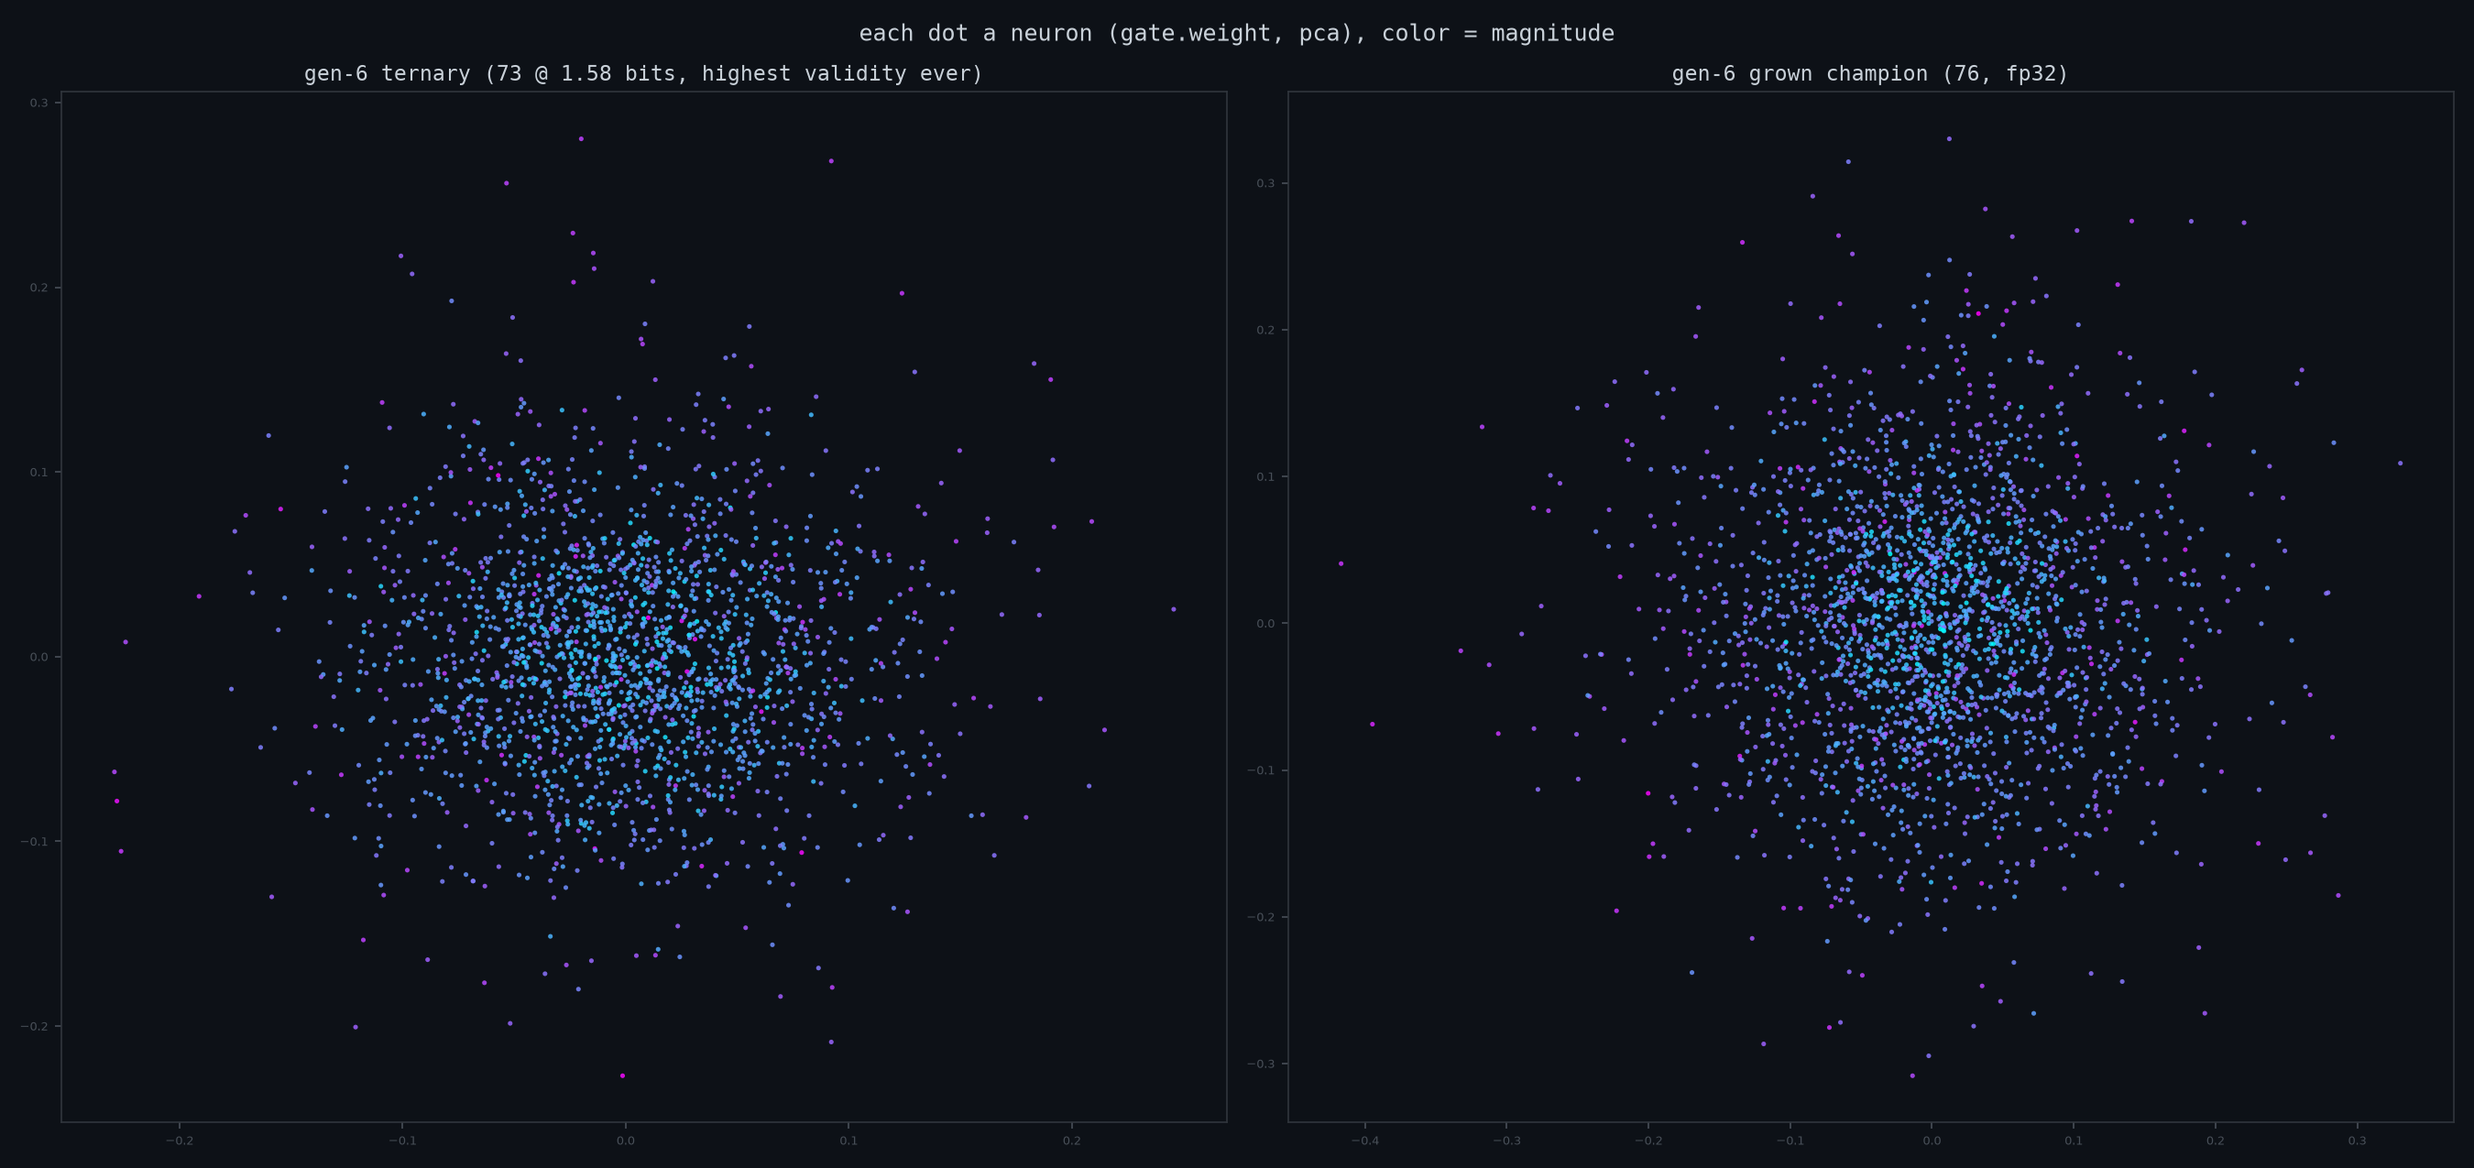
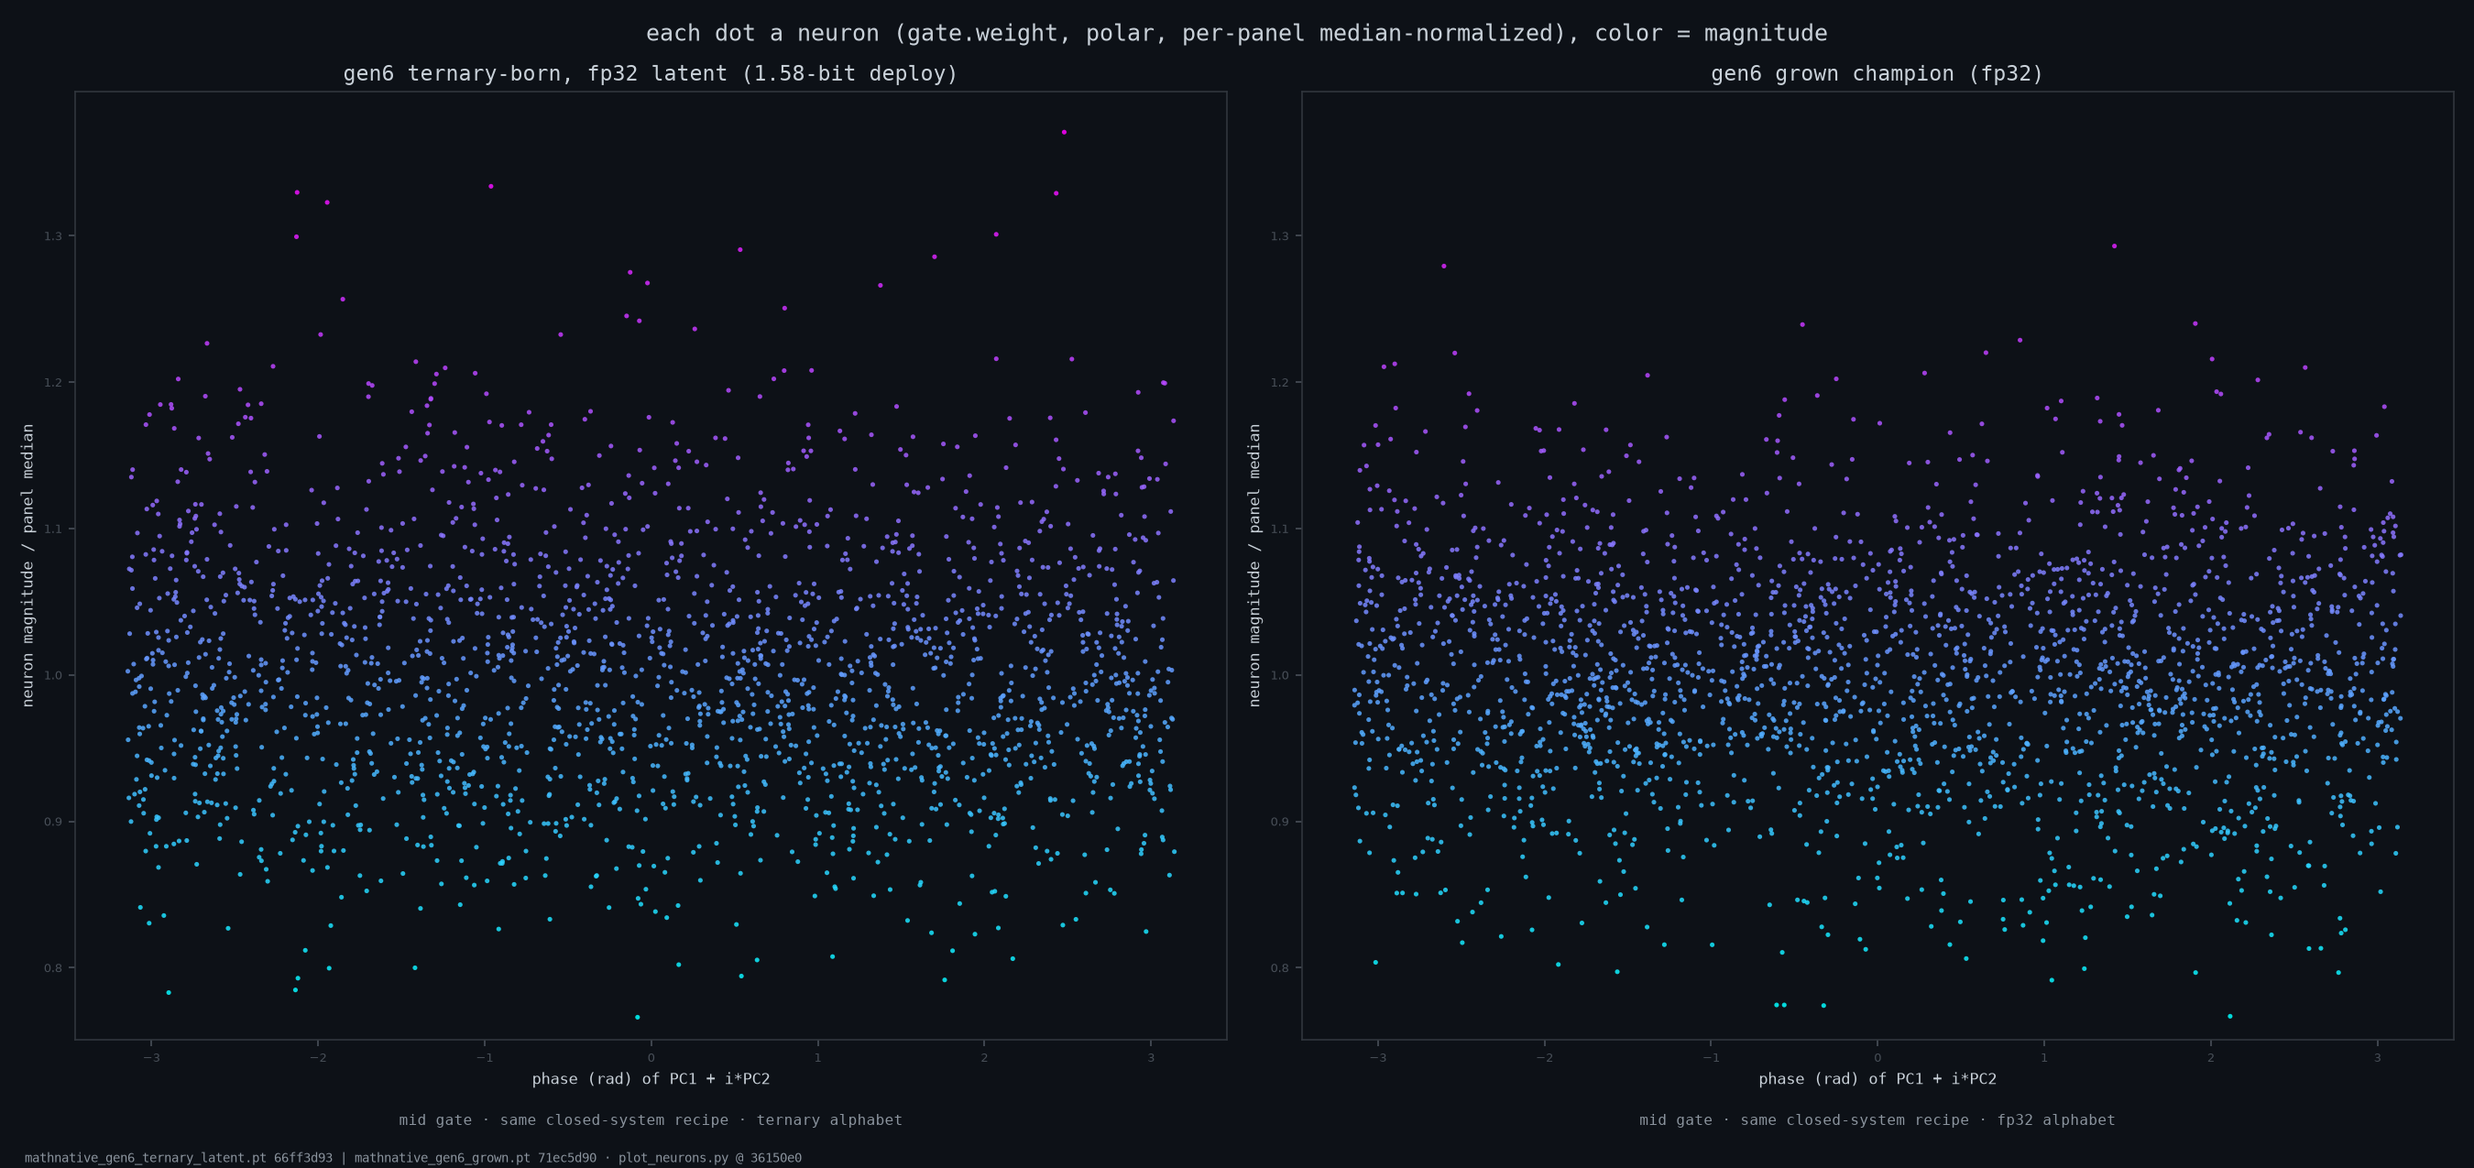
gallery hardening: plot_neurons provenance stamps (ckpt sha8 + repo HEAD) + --normalize for cross-substrate shape claims; new identity-crest figure from VERDICT EX-FRESH dicts; asset README rewritten with claim/fence/RESULTS anchors + [R]/[H] generator status; historical portraits frozen as-rendered

diff --git a/scripts/plot_neurons.py b/scripts/plot_neurons.py
@@ -18,11 +18,46 @@ Examples:
       --d 384 --title "math-native 19M" --out docs/assets/neurons-19m.png
   python scripts/plot_neurons.py --ckpt A.pt --compare B.pt \
       --method sphere --out docs/assets/neurons-a-vs-b.png
+
+Provenance (2026-08-08 gallery-hardening pass): every figure gets a
+footer stamp — checkpoint basename + sha256[:8] + the repo HEAD at
+render time — so a stranger can tie the pixels to exact artifacts
+(figures are claims; the citation policy applies to them too).
+--normalize divides each panel's magnitudes by that panel's MEDIAN
+before plotting: cross-substrate comparisons (fp32 v ternary v a
+671B expert shard) claim SHAPE similarity, so the radial axis must
+be commensurable — raw scales differ per alphabet and would fake
+or hide texture agreement.
 """
 import argparse
+import hashlib
+import subprocess
 
 BG = "#0d1117"
 FG = "#c9d1d9"
+DIM = "#8b949e"
+
+
+def sha8(path: str) -> str:
+    h = hashlib.sha256()
+    with open(path, "rb") as f:
+        for chunk in iter(lambda: f.read(1 << 22), b""):
+            h.update(chunk)
+    return h.hexdigest()[:8]
+
+
+def repo_head() -> str:
+    try:
+        return subprocess.run(
+            ["git", "rev-parse", "--short", "HEAD"],
+            capture_output=True, text=True).stdout.strip() or "unknown"
+    except OSError:
+        return "unknown"
+
+
+def provenance_line(ckpts) -> str:
+    parts = [f"{c.split('/')[-1]} {sha8(c)}" for c in ckpts]
+    return (f"{' | '.join(parts)} · plot_neurons.py @ {repo_head()}")
 
 
 def torch_svd_top2(X):
@@ -108,6 +143,14 @@ def main() -> None:
                     help="displacement magnification")
     ap.add_argument("--zoom", type=float, default=0.2,
                     help="central quantile box (0.2 = middle 60%)")
+    ap.add_argument("--normalize", action="store_true",
+                    help="divide each panel's magnitudes by that "
+                         "panel's median (cross-substrate SHAPE "
+                         "comparisons need commensurable axes)")
+    ap.add_argument("--foot", default=None,
+                    help="left-panel footer (layer/count/diet receipt)")
+    ap.add_argument("--foot2", default=None,
+                    help="right-panel footer")
     a = ap.parse_args()
     if a.displace:
         import numpy as np
@@ -138,7 +181,9 @@ def main() -> None:
         t = a.title or f"{a.ckpt} -> {a.displace}"
         ax.set_title(f"central lattice, displacements x{a.mult:g} — {t}",
                      color=FG, fontsize=11, family="monospace")
-        fig.tight_layout()
+        fig.text(0.01, 0.005, provenance_line([a.ckpt, a.displace]),
+                 color=DIM, fontsize=6.5, family="monospace")
+        fig.tight_layout(rect=(0, 0.015, 1, 1))
         fig.savefig(a.out, dpi=150, facecolor=BG)
         print(f"saved {a.out}")
         raise SystemExit
@@ -156,20 +201,47 @@ def main() -> None:
     for ck, title in ckpts:
         W = neuron_matrix(ck, a.key)
         xs, ys, mag = project(W, a.method)
+        if a.normalize:
+            med = mag.median().clamp(min=1e-12)
+            mag = mag / med
+            if a.method == "polar":
+                ys = ys / med  # polar's y IS the magnitude axis
         panels.append((xs, ys, mag, title))
     vmin = min(float(p[2].min()) for p in panels)
     vmax = max(float(p[2].max()) for p in panels)
-    for ax, (xs, ys, mag, title) in zip(axes, panels):
+    ylo = yhi = None
+    if a.method == "polar" and a.normalize:
+        # shared y-limits: SHAPE claims need commensurable axes
+        ylo = min(float(p[1].min()) for p in panels)
+        yhi = max(float(p[1].max()) for p in panels)
+    feet = [a.foot, a.foot2]
+    for i, (ax, (xs, ys, mag, title)) in enumerate(zip(axes, panels)):
         scatter(ax, xs, ys, mag, title, a.cmap, vmin=vmin, vmax=vmax)
         if a.method == "polar":
             ax.set_xlabel("phase (rad) of PC1 + i*PC2", color=FG,
                           fontsize=8, family="monospace")
-            ax.set_ylabel("neuron magnitude", color=FG, fontsize=8,
+            ax.set_ylabel("neuron magnitude"
+                          + (" / panel median" if a.normalize else ""),
+                          color=FG, fontsize=8, family="monospace")
+            if ylo is not None and yhi is not None:
+                ax.set_ylim(ylo * 0.98, yhi * 1.02)
+        elif a.method == "pca":
+            ax.set_xlabel("PC1", color=FG, fontsize=8,
                           family="monospace")
-    fig.suptitle(f"each dot a neuron ({a.key}, {a.method}), "
-                 f"color = magnitude", color=FG, fontsize=12,
+            ax.set_ylabel("PC2", color=FG, fontsize=8,
+                          family="monospace")
+        if i < len(feet) and feet[i]:
+            ax.text(0.5, -0.09, feet[i], transform=ax.transAxes,
+                    color=DIM, fontsize=7.5, family="monospace",
+                    ha="center")
+    fig.suptitle(f"each dot a neuron ({a.key}, {a.method}"
+                 + (", per-panel median-normalized" if a.normalize
+                    else "")
+                 + "), color = magnitude", color=FG, fontsize=12,
                  family="monospace")
-    fig.tight_layout()
+    fig.text(0.01, 0.005, provenance_line([c for c, _ in ckpts]),
+             color=DIM, fontsize=6.5, family="monospace")
+    fig.tight_layout(rect=(0, 0.02, 1, 1))
     fig.savefig(a.out, dpi=150, facecolor=BG)
     print(f"saved {a.out}")
 

diff --git a/scripts/plot_identity_crest.py b/scripts/plot_identity_crest.py
@@ -1,0 +1,90 @@
+"""The identity-era figure the gallery lacked (2026-08-08 pass).
+
+Data are TRANSCRIBED VERBATIM from VERDICT EX-FRESH (docs/RESULTS.md
+2026-08-07: all twelve dicts sum-verified there) — this script holds
+no model code; it renders the booked table so the repo's strongest
+claim has a visual. Regenerate: python scripts/plot_identity_crest.py
+
+Claim shown: capability follows expert IDENTITY. At three fresh
+paired seeds (1001/2002/3003, discovery pool quarantined), both a
+54.7%-keep swap-derived mask (+53 pooled) and a 98.7%-keep named
+80-carrier deletion (+55 pooled) beat the full 30B-class MoE on the
+120-prompt mathematics gate; the rank-matched random deletion
+control (+28) shows the router is over-inclusive at the carriers'
+rank class, and identity roughly doubles that gain.
+Fences travel: FORMAT-BOUND, REGIME-SCOPED (measured deployment
+artifacts), one vehicle, mathgen L1-3, Mac MLX.
+"""
+import subprocess
+
+BG = "#0d1117"
+FG = "#c9d1d9"
+DIM = "#8b949e"
+
+SEEDS = [1001, 2002, 3003]
+ARMS = [  # (label, per-seed solves /120, color)
+    ("full model", [59, 67, 63], "#8b949e"),
+    ("swap-derived keep-set\n(54.7% keep)", [77, 83, 82], "#58a6ff"),
+    ("named 80-carrier deletion\n(98.7% keep)", [78, 85, 81], "#bc8cff"),
+    ("rank-matched random\ndeletion control", [70, 76, 71], "#39c5cf"),
+]
+POOLED = [("swap - full", "+53"), ("deletion - full", "+55"),
+          ("deletion - control", "+27"), ("control - full", "+28")]
+
+
+def main() -> None:
+    import matplotlib
+    matplotlib.use("Agg")
+    import matplotlib.pyplot as plt
+
+    fig, ax = plt.subplots(figsize=(12.5, 7.5))
+    fig.patch.set_facecolor(BG)
+    ax.set_facecolor(BG)
+    for gi in range(len(SEEDS)):
+        for ai, (label, vals, col) in enumerate(ARMS):
+            x = gi * (len(ARMS) + 1.2) * 0.22 + ai * 0.22
+            ax.bar(x, vals[gi], width=0.19, color=col, alpha=0.92,
+                   label=label.replace("\n", " ") if gi == 0 else None)
+            ax.text(x, vals[gi] + 1.2, str(vals[gi]), color=FG,
+                    ha="center", fontsize=9, family="monospace")
+    centers = [gi * (len(ARMS) + 1.2) * 0.22 + 1.5 * 0.22
+               for gi in range(len(SEEDS))]
+    ax.set_xticks(centers)
+    ax.set_xticklabels([f"fresh seed {s}" for s in SEEDS],
+                       color=FG, fontsize=10, family="monospace")
+    ax.set_ylabel("gate solves / 120", color=FG, fontsize=10,
+                  family="monospace")
+    ax.set_ylim(0, 95)
+    ax.tick_params(colors="#484f58")
+    for s in ax.spines.values():
+        s.set_color("#30363d")
+    ax.set_title("capability follows expert IDENTITY — both crest "
+                 "forms replicate at three fresh paired seeds",
+                 color=FG, fontsize=12.5, family="monospace", pad=14)
+    ax.legend(loc="upper left", facecolor=BG, edgecolor="#30363d",
+                    fontsize=8.5, labelcolor=FG)
+    pooled_txt = "pooled: " + "  ".join(f"{k} {v} (3/3)"
+                                        for k, v in POOLED)
+    ax.text(0.5, -0.115, pooled_txt, transform=ax.transAxes,
+            color=FG, fontsize=9, family="monospace", ha="center")
+    try:
+        head = subprocess.run(["git", "rev-parse", "--short", "HEAD"],
+                              capture_output=True,
+                              text=True).stdout.strip()
+    except OSError:
+        head = "unknown"
+    ax.text(0.0, -0.16,
+            "VERDICT EX-FRESH (docs/RESULTS.md 2026-08-07) · 30B-class "
+            "MoE, 120-prompt mathematics gate, Mac MLX · FORMAT-BOUND, "
+            "REGIME-SCOPED, one vehicle · plot_identity_crest.py @ "
+            + head,
+            transform=ax.transAxes, color=DIM, fontsize=7,
+            family="monospace")
+    fig.tight_layout(rect=(0, 0.045, 1, 1))
+    out = "docs/assets/identity-crest-fresh-seeds.png"
+    fig.savefig(out, dpi=150, facecolor=BG)
+    print(f"saved {out}")
+
+
+if __name__ == "__main__":
+    main()

diff --git a/docs/assets/README.md b/docs/assets/README.md
@@ -1,34 +1,74 @@
 # Asset index — the crystal gallery
 
-Every image is generated by `scripts/plot_neurons.py` (methods:
-pca / sphere / polar / --displace) unless noted. House background
-#0d1117. Grouped by question, not by date.
+Figures are claims: each row names the claim, the fence, and where
+the verdict lives in `docs/RESULTS.md`. House background #0d1117.
+Grouped by question, not by date.
 
-## Current models (2026-07-18)
+Provenance policy (2026-08-08 pass): `scripts/plot_neurons.py` now
+stamps every render with checkpoint sha256[:8] + repo HEAD, and has
+`--normalize` (per-panel median) for cross-substrate SHAPE claims —
+raw magnitude scales differ per alphabet and would fake or hide
+texture agreement. Historical portraits are FROZEN as first
+rendered (git history is their provenance); regenerated figures
+carry the stamp in their bottom-left corner. Generator status is
+marked per row: `[R]` = reproducible from a committed script,
+`[H]` = historical one-off, generator not committed (frozen
+as-rendered; do not overwrite).
 
-| Image | What it shows |
+## The identity era (the repo's strongest claim)
+
+| Image | Claim / fence |
 |---|---|
-| `neurons-pca-ternary6ep-vs-fp32.png` | the tie: ternary 6-epoch (69/120 @ 1.58 bits) vs fp32 champion (69/120) — geometry constraint-invariant |
-| `neurons-polar-ternary6ep-vs-fp32.png` | same pair, phase view |
-| `neurons-pca-113m6ep-vs-fp32.png` | 113M 6-epoch (66/120, L8 frontier leader) vs the 45M champion |
-| `neurons-ternary-growth-ep3-ep6.png` | displacement lattice for the ternary's 63→69 climb |
-| `neurons-113m-growth-ep0-ep1.png`, `neurons-113m-growth-ep1-final.png` | the growth movie: texture forms in epoch 1, then freezes (color-fade confirmed-with-saturation) |
+| `identity-crest-fresh-seeds.png` `[R]` (`plot_identity_crest.py`) | capability follows expert IDENTITY: swap-derived keep-set +53, named 80-carrier deletion +55, rank-matched control +28 (router over-inclusive) — all 3/3 at fresh seeds 1001/2002/3003. VERDICT EX-FRESH. FORMAT-BOUND, one vehicle, mathgen L1-3, Mac MLX |
 
-## Cross-diet / cross-scale laws
+## Internet diet vs closed system
 
-| Image | What it shows |
+| Image | Claim / fence |
 |---|---|
-| `neurons-polar-four-diets.png`, `-normalized.png`, `neurons-phase-density-four-diets.png` | four diets, four textures — CV as imprint dial |
-| `neurons-polar-v3expert-vs-19m.png` | crystal law spans 19M→671B: DeepSeek-V3 expert gauged from one shard |
-| `neurons-qwen-vs-19m.png`, `neurons-polar-qwen-vs-19m.png` | internet diet vs closed-system diet |
-| `three-minds-*.png` | fp32 / ternary / 113M birth triptychs (crystal, sphere, polar) |
+| `neurons-qwen-vs-19m.png` `[H]`, `neurons-polar-qwen-vs-19m.png` `[H]` | the easy tell: web-pretrained Qwen-0.5B (dense isotropic cloud) vs math-native 19M (sparse ring structure), same PCA/polar lens. Qualitative, n=1 per side, gate.weight lens only |
+| `neurons-polar-four-diets.png` + `-normalized` + `neurons-phase-density-four-diets.png` `[H]` | four diets, four textures — diet moves the imprint (CV as dial). Phase-density instrument had a booked bug-and-fix cycle; see RESULTS before quoting |
+| `neurons-polar-v3expert-vs-19m.png` `[H]` | one 671B-expert shard vs the 19M under the same polar lens — texture continuity, not a scale law. n=1 shard |
 
-## Historical / single-model portraits
+## Alphabet / precision (the tie)
 
-| Image | What it shows |
+| Image | Claim / fence |
 |---|---|
-| `neurons-19m.png`, `neurons-19m-zoom.png` | the first crystal (README hero image) |
-| `neurons-pca-ternary-vs-fp32.png`, `neurons-sphere-ternary-vs-fp32.png`, `neurons-polar-ternary-vs-fp32.png`, `-normalized.png` | ternary at 3 epochs (63) vs champion |
-| `neurons-sphere-45m-vs-113m.png` | first 45M-vs-113M comparison |
-| `neurons-zoom-fp32-vs-ternary-displacement.png` | cross-substrate displacement view |
-| `rl-vs-sft-weight-delta.png` | SFT pours the crystal (‖dW‖=61), RL whispers (‖dW‖=4) |
+| `neurons-gen6-ternary-vs-grown.png` `[R]` (regenerated 2026-08-08, normalized + stamped) | crown pair: ternary-born latent vs fp32 grown champion — same recipe, different alphabet; normalized view shows ternary's WIDER magnitude spread (0.78-1.37 v tight fp32), a real difference auto-scaling hid. Crown tie itself is n=1-births (BOARD fence) |
+| `neurons-pca-ternary6ep-vs-fp32.png`, `neurons-polar-ternary6ep-vs-fp32.png` `[H]` | the 69/120-both tie in weight space at 1.58 bits v fp32 |
+| `neurons-pca-ternary-vs-fp32.png`, `-sphere-`, `-polar-` (+`-normalized`) `[H]` | earlier 3-epoch ternary (63) vs champion |
+| `neurons-binary768-vs-ternary.png` `[H]` | binary-768 vs ternary geometry |
+| `three-minds-crystal/polar/sphere.png` + `three-minds-polar-normalized.png` `[H]` | fp32 champion / DeepSeek-V3 expert 42 shard / ternary-born under one lens — shared banded texture across substrates. Prefer the `-normalized` variant for the shape claim (unnormalized panels have incommensurable y-ranges) |
+
+## Training dynamics
+
+| Image | Claim / fence |
+|---|---|
+| `neurons-19m.png`, `neurons-19m-zoom.png` `[H]` | the first crystal (README hero image) + the SFT-v-RL displacement view: SFT mean displacement ~0.123, RL climb ~0.007 (~19x stiller) — policy edit as small coordinated geometry. FROZEN as first rendered |
+| `rl-vs-sft-weight-delta.png` `[H]` | layer x projection heatmaps: SFT pours the crystal (dW ~61), RL whispers (~4); CKA(pre, climbed) ~0.9998 |
+| `neurons-ternary-growth-ep3-ep6.png`, `neurons-113m-growth-*.png` `[H]` | growth movies: texture forms in epoch 1, then freezes |
+| `neurons-gen6-grown-vs-champion.png`, `neurons-gen6-ternary-polar.png` `[H]` | gen6 lineage portraits |
+| `neurons-zoom-fp32-vs-ternary-displacement.png` `[H]` | cross-substrate displacement |
+
+## Width / capacity
+
+| Image | Claim / fence |
+|---|---|
+| `neurons-wfloor-d128-vs-19m.png`, `neurons-wfloor-d256-vs-d64.png` `[H]` | width-floor ladder geometry (the d-cliff sits in (48,56]) |
+| `neurons-sphere-45m-vs-113m.png` `[H]` | 45M v 113M direction structure |
+| `width-curve-gen4.png` `[H]` | the width-capability curve |
+
+## Spectral / crystallography lenses
+
+| Image | Claim / fence |
+|---|---|
+| `symmetry-rmt-and-gtheta.png` `[H]` | eigenvalue density v Marchenko-Pastur edge (mass beyond edge = learned structure) + angular pair-distribution g(theta): DeepSeek expert shows a sharp ~90-degree peak. Physics-as-method lens; claims live in the symmetry RESULTS entries |
+| `neuron-weighting-pr.png`, `neuron-density-vs-phase.png` `[H]` | participation-ratio / density instruments (1/3 law + MP-sliver bookings) |
+
+## Wanted (figures the record has earned)
+
+- GT-1 crest small-multiples (masked v full, 6 paired seeds +
+  domain-specificity: math +14.7 v mechanics -59) — data booked,
+  needs a `plot_*` script in the `[R]` class.
+- Re-render of `three-minds` from the committed script + the
+  on-disk `k3_expert_*` shards, so the gallery's best cross-scale
+  figure leaves the `[H]` class.
